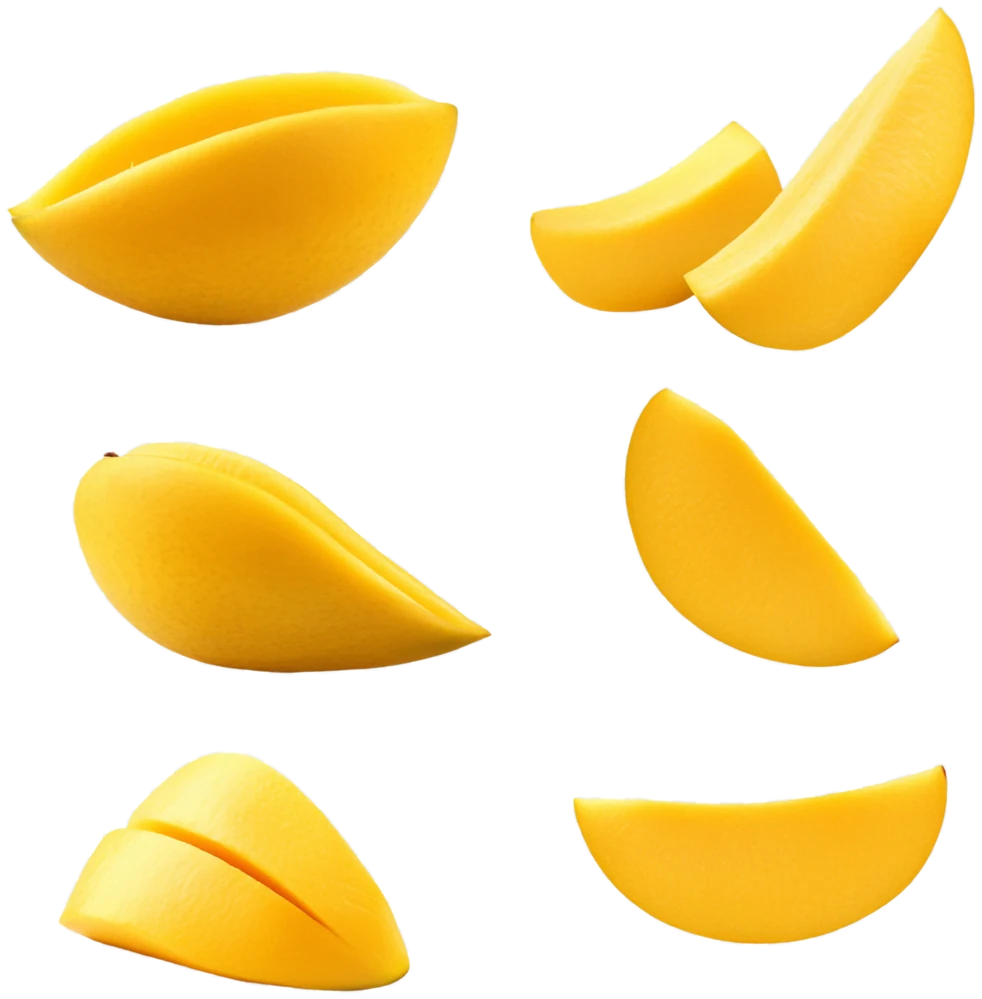
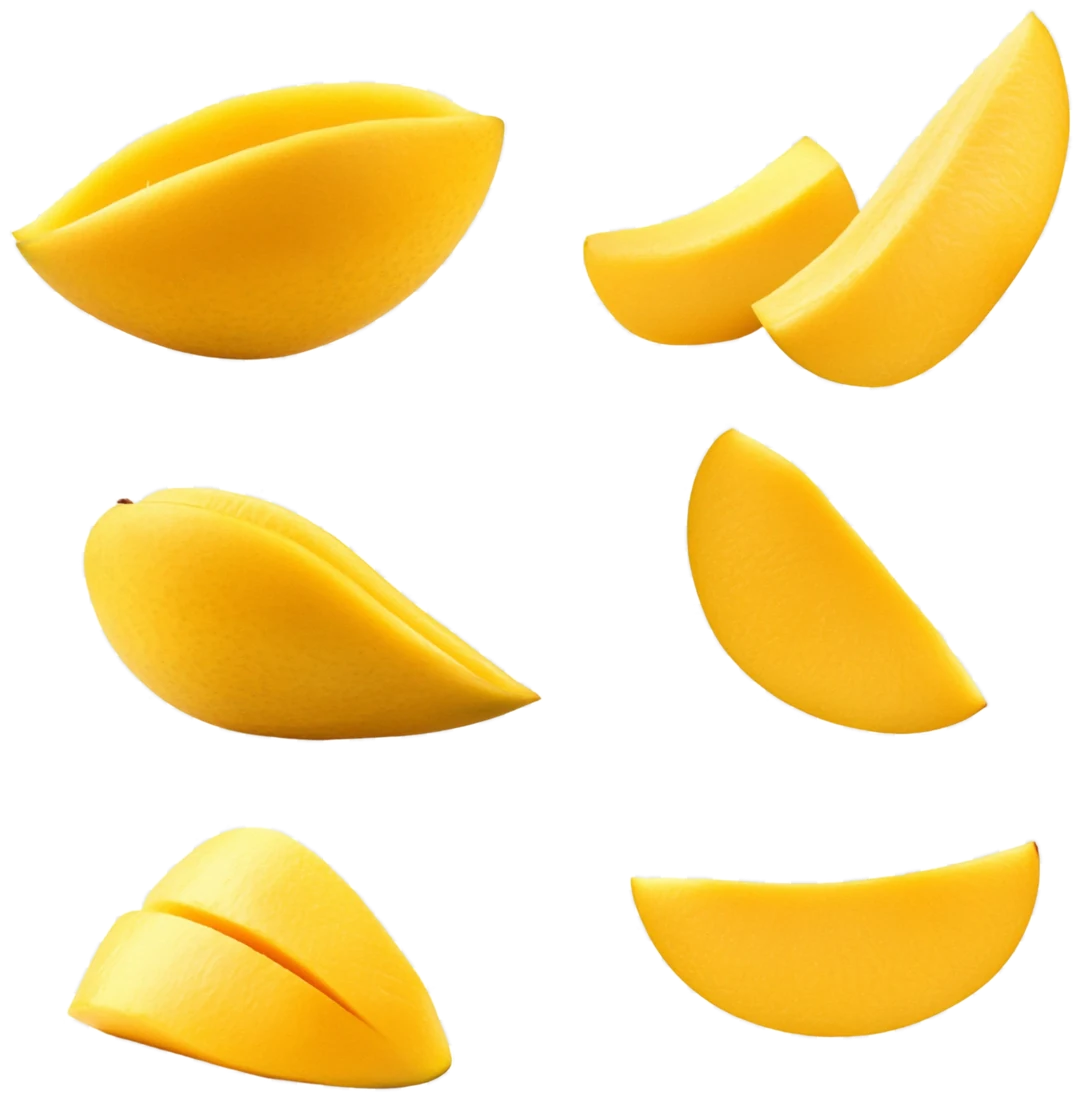
Add coffee beans + upgrade almonds/mango, make ingredient photos idle-animate
New real photos: coffee-beans.webp (new), almonds.webp and mango.webp
(both upgraded to higher-quality multi-piece shots supplied by the site
owner — mango's checkerboard-baked JPG needed a new grayscale-keyed bg
remover, scripts/remove_bg_checker.py). Wired into the Ingredients depth
scene and expanded the Our Craft grid from 6 to 8 tiles (4-column).

Also gives every ingredient photo in the Ingredients scene, the
Signature floaters, and the Our Craft grid a small, continuously
looping idle drift/rotate/breathe animation (staggered per element)
so the page keeps feeling alive at rest, not just while scrolling.
Uses the standalone CSS translate/rotate/scale properties so it
composes with GSAP's transform-based scroll animations instead of
fighting them, and is disabled under prefers-reduced-motion like
everything else on the site.

Claude-Session: https://claude.ai/code/session_01EYBF1g6uSdKexUXA3xAHNE

diff --git a/css/style.css b/css/style.css
@@ -287,25 +287,36 @@ section{ position:relative; }
   display:flex; align-items:center; justify-content:center;
 }
 .depth-layer{ position:absolute; inset:0; }
+/* idle-drift animates the standalone translate/rotate properties (not
+   `transform`), so it composes independently of the scale/opacity GSAP
+   writes to each img's `transform` for the scroll-in entrance — the two
+   never fight over the same property. */
+@keyframes idle-drift{
+  0%, 100%{ translate:0 0; rotate:0deg; }
+  50%{ translate:0 -9px; rotate:1.6deg; }
+}
 .depth-img{
   position:absolute;
   filter:drop-shadow(0 26px 34px rgba(43,30,22,.28));
   will-change:transform;
+  animation:idle-drift 7s ease-in-out infinite;
 }
 .depth-layer--back{ filter:blur(1.5px); opacity:.9; }
-.depth-img--hazelnuts{ top:10%; left:8%; width:12vw; max-width:150px; }
-.depth-img--blueberries{ top:66%; left:80%; width:11vw; max-width:140px; }
+.depth-img--hazelnuts{ top:10%; left:8%; width:12vw; max-width:150px; animation-duration:8s; }
+.depth-img--blueberries{ top:66%; left:80%; width:11vw; max-width:140px; animation-duration:6.4s; animation-delay:-2.1s; }
+.depth-img--coffee{ top:82%; left:88%; width:11vw; max-width:150px; animation-duration:7.4s; animation-delay:-4.6s; }
 
-.depth-img--banana{ top:14%; left:74%; width:15vw; max-width:190px; }
-.depth-img--mango{ top:58%; left:4%; width:15vw; max-width:190px; }
-.depth-img--cashews{ top:16%; left:22%; width:10vw; max-width:130px; }
-.depth-img--ice{ top:38%; left:88%; width:9vw; max-width:120px; }
+.depth-img--banana{ top:14%; left:74%; width:15vw; max-width:190px; animation-duration:8.6s; animation-delay:-1.4s; }
+.depth-img--mango{ top:58%; left:4%; width:15vw; max-width:190px; animation-duration:6.8s; animation-delay:-3.3s; }
+.depth-img--cashews{ top:16%; left:22%; width:10vw; max-width:130px; animation-duration:7.2s; animation-delay:-.8s; }
+.depth-img--almonds{ top:80%; left:38%; width:13vw; max-width:170px; animation-duration:9s; animation-delay:-5.2s; }
+.depth-img--ice{ top:38%; left:88%; width:9vw; max-width:120px; animation-duration:6.2s; animation-delay:-2.7s; }
 
-.depth-img--strawberry{ top:68%; left:64%; width:16vw; max-width:210px; z-index:5; }
-.depth-img--pistachios{ top:6%; left:48%; width:9vw; max-width:120px; z-index:5; }
-.depth-img--chocolate{ top:82%; left:24%; width:10vw; max-width:130px; z-index:5; }
-.depth-img--cream{ top:4%; left:38%; width:11vw; max-width:150px; z-index:5; }
-.depth-img--milk{ top:54%; left:92%; width:12vw; max-width:160px; z-index:5; }
+.depth-img--strawberry{ top:68%; left:64%; width:16vw; max-width:210px; z-index:5; animation-duration:7.8s; animation-delay:-1.9s; }
+.depth-img--pistachios{ top:6%; left:48%; width:9vw; max-width:120px; z-index:5; animation-duration:6.6s; animation-delay:-4s; }
+.depth-img--chocolate{ top:82%; left:24%; width:10vw; max-width:130px; z-index:5; animation-duration:8.2s; animation-delay:-.4s; }
+.depth-img--cream{ top:4%; left:38%; width:11vw; max-width:150px; z-index:5; animation-duration:7s; animation-delay:-3.7s; }
+.depth-img--milk{ top:54%; left:92%; width:12vw; max-width:160px; z-index:5; animation-duration:7.6s; animation-delay:-5.8s; }
 
 .ingredients__copy{
   position:relative; z-index:6;
@@ -355,10 +366,10 @@ section{ position:relative; }
   will-change:transform,opacity;
 }
 .signature__floaters{ position:absolute; inset:0; }
-.floater{ position:absolute; opacity:0; filter:drop-shadow(0 18px 22px rgba(43,30,22,.25)); }
-.floater--sb-1{ width:10%; top:10%; left:6%; }
-.floater--sb-2{ width:8%; bottom:14%; right:8%; }
-.floater--cream{ width:13%; top:6%; right:14%; }
+.floater{ position:absolute; opacity:0; filter:drop-shadow(0 18px 22px rgba(43,30,22,.25)); animation:idle-drift 7s ease-in-out infinite; }
+.floater--sb-1{ width:10%; top:10%; left:6%; animation-duration:7.4s; }
+.floater--sb-2{ width:8%; bottom:14%; right:8%; animation-duration:6.6s; animation-delay:-2.5s; }
+.floater--cream{ width:13%; top:6%; right:14%; animation-duration:8s; animation-delay:-4.8s; }
 
 /* ============ COLLECTION ============ */
 .collection{
@@ -484,15 +495,23 @@ section{ position:relative; }
 
 .craft__grid{
   margin-top:4rem;
-  display:grid; grid-template-columns:repeat(3,1fr); gap:2rem 1.6rem;
+  display:grid; grid-template-columns:repeat(4,1fr); gap:2rem 1.6rem;
 }
 .craft__item{
   display:flex; flex-direction:column; align-items:center; gap:1rem;
 }
+@keyframes idle-breathe{
+  0%, 100%{ scale:1; }
+  50%{ scale:1.05; }
+}
 .craft__item img{
   width:100%; max-width:120px; border-radius:50%; aspect-ratio:1/1; object-fit:cover;
   filter:drop-shadow(0 14px 24px rgba(0,0,0,.35));
+  animation:idle-breathe 5.5s ease-in-out infinite;
 }
+.craft__item:nth-child(2n) img{ animation-duration:6.4s; animation-delay:-2.2s; }
+.craft__item:nth-child(3n) img{ animation-duration:4.8s; animation-delay:-3.6s; }
+.craft__item:nth-child(4n) img{ animation-duration:5.9s; animation-delay:-1.1s; }
 .craft__item span{ font-size:.82rem; font-weight:600; color:rgba(255,248,240,.85); }
 
 /* ============ FOOTER ============ */

diff --git a/index.html b/index.html
@@ -89,12 +89,14 @@
       <div class="depth-layer depth-layer--back" data-depth="0.2">
         <img src="assets/images/hazelnuts.svg" alt="Hazelnuts" class="depth-img depth-img--hazelnuts" />
         <img src="assets/images/blueberries.webp" alt="Blueberries" class="depth-img depth-img--blueberries" />
+        <img src="assets/images/coffee-beans.webp" alt="Coffee beans" class="depth-img depth-img--coffee" />
       </div>
 
       <div class="depth-layer depth-layer--mid" data-depth="0.55">
         <img src="assets/images/banana.webp" alt="Banana" class="depth-img depth-img--banana" />
         <img src="assets/images/mango.webp" alt="Mango" class="depth-img depth-img--mango" />
         <img src="assets/images/cashews.webp" alt="Cashews" class="depth-img depth-img--cashews" />
+        <img src="assets/images/almonds.webp" alt="Almonds" class="depth-img depth-img--almonds" />
         <img src="assets/images/ice-cubes.webp" alt="Ice cubes" class="depth-img depth-img--ice" />
       </div>
 
@@ -296,6 +298,14 @@
         <div class="craft__item">
           <img src="assets/images/mango.webp" alt="Mango" />
           <span>Fresh mango</span>
+        </div>
+        <div class="craft__item">
+          <img src="assets/images/almonds.webp" alt="Almonds" />
+          <span>Toasted almonds</span>
+        </div>
+        <div class="craft__item">
+          <img src="assets/images/coffee-beans.webp" alt="Coffee beans" />
+          <span>Roasted coffee</span>
         </div>
       </div>
     </div>

diff --git a/scripts/remove_bg_checker.py b/scripts/remove_bg_checker.py
@@ -1,0 +1,59 @@
+#!/usr/bin/env python3
+"""
+Removes a checkerboard "transparency preview" background baked into a
+flattened JPG/PNG (the classic two-tone grey checker pattern some image
+tools export when you save a "transparent" PNG as a JPG, losing the real
+alpha channel). Unlike remove_bg.py (single solid background color), this
+keys on pixels that are both near-grayscale (R ≈ G ≈ B) and light,
+which the checker squares are and real food photography usually isn't.
+
+Usage:
+    python3 scripts/remove_bg_checker.py input.jpg output.png [gray_tol] [min_light]
+
+Requires numpy and scipy (pip install numpy scipy).
+"""
+import sys
+import numpy as np
+from PIL import Image, ImageFilter
+from scipy import ndimage
+
+def remove_checker_bg(path, out_path, gray_tol=14, min_light=195, feather=2.0):
+    im = Image.open(path).convert("RGB")
+    arr = np.array(im).astype(np.int16)
+    h, w, _ = arr.shape
+
+    spread = arr.max(axis=2) - arr.min(axis=2)
+    lightness = arr.mean(axis=2)
+    bg_mask = (spread < gray_tol) & (lightness > min_light)
+
+    labeled, n = ndimage.label(bg_mask)
+    border_labels = set(labeled[0, :]) | set(labeled[-1, :]) | set(labeled[:, 0]) | set(labeled[:, -1])
+    border_labels.discard(0)
+    connected_bg = np.isin(labeled, list(border_labels))
+
+    alpha = np.where(connected_bg, 0, 255).astype(np.uint8)
+    alpha_img = Image.fromarray(alpha, mode="L")
+    alpha_img = alpha_img.filter(ImageFilter.GaussianBlur(feather))
+
+    rgba = im.convert("RGBA")
+    rgba.putalpha(alpha_img)
+
+    bbox = alpha_img.point(lambda p: 255 if p > 10 else 0).getbbox()
+    if bbox:
+        pad = 14
+        l, t, r, b = bbox
+        l = max(0, l - pad); t = max(0, t - pad)
+        r = min(w, r + pad); b = min(h, b + pad)
+        rgba = rgba.crop((l, t, r, b))
+
+    rgba.save(out_path)
+    print(f"{path} -> {out_path}  {rgba.size}")
+
+if __name__ == "__main__":
+    if len(sys.argv) < 3:
+        print(__doc__)
+        sys.exit(1)
+    src, dst = sys.argv[1], sys.argv[2]
+    gray_tol = float(sys.argv[3]) if len(sys.argv) > 3 else 14
+    min_light = float(sys.argv[4]) if len(sys.argv) > 4 else 195
+    remove_checker_bg(src, dst, gray_tol=gray_tol, min_light=min_light)

diff --git a/assets/images/README.md b/assets/images/README.md
@@ -6,7 +6,7 @@ where no photo exists yet). Every real photo listed below was uploaded
 by the site owner, converted to WebP, and had its background cleaned up
 where needed — nothing here is AI-generated.
 
-## Real photographs (13 files)
+## Real photographs (15 files)
 
 | File | Shows | Source |
 |---|---|---|
@@ -14,9 +14,10 @@ where needed — nothing here is AI-generated.
 | `strawberry-alt.webp` | Single heart-shaped strawberry | user-supplied (bg removed) |
 | `photo-strawberry-shake.webp` | Full real strawberry milkshake in a glass, splash crown on top, transparent bg — the hero's product shot | user-supplied |
 | `banana.webp` | Single banana, transparent bg | user-supplied |
-| `mango.webp` | Six mango slices/wedges | user-supplied (bg removed) |
+| `mango.webp` | Six mango wedges scattered mid-air, transparent bg | user-supplied (bg removed — arrived as a flattened JPG with a checkerboard "transparency preview" baked in, not real alpha; see below) |
 | `blueberries.webp` | Cluster of 4 (composited from one real blueberry photo, rotated/scaled — same photograph, arranged as a group) | user-supplied |
-| `almonds.webp` | Scattered almond group | user-supplied |
+| `almonds.webp` | Scattered group of ~16 whole almonds, transparent bg | user-supplied |
+| `coffee-beans.webp` | Scattered group of 11 roasted coffee beans, transparent bg | user-supplied |
 | `cashews.webp` | Cashew group | user-supplied |
 | `pistachios.webp` | Single opened pistachio | user-supplied |
 | `chocolate.webp` | Chocolate syrup swirl | user-supplied |
@@ -46,6 +47,16 @@ for background), and feathers the edge — no AI background-removal tool
 involved. Run it as `python3 scripts/remove_bg.py in.jpg out.png` on any
 future studio-background photo.
 
+`mango.webp` needed a variant of that: it arrived as a JPG with a
+two-tone grey checkerboard baked into the pixels (the classic
+"transparency preview" pattern some editors flatten into an export) —
+not a real alpha channel. [`scripts/remove_bg_checker.py`](../../scripts/remove_bg_checker.py)
+keys on pixels that are both near-grayscale and light rather than a
+single background color, then does the same border-connected flood
+fill and feather. Run it as
+`python3 scripts/remove_bg_checker.py in.jpg out.png` if another photo
+shows up with that same checker pattern.
+
 ## Swapping in more real photography
 
 Same process as before — no code restructuring needed:
@@ -65,14 +76,35 @@ Same process as before — no code restructuring needed:
   real product shot — replaced an earlier bottle+glass illustration
   pairing, and the splash-ring transition between them was later
   removed too — the tumble now settles straight into the product shot).
-- **Ingredients depth scene** — all 9 ingredient photos above, plus
-  `hazelnuts.svg` and `whipped-cream.svg`.
-- **Signature** — `shake-strawberry.svg` + strawberry floaters.
+- **Ingredients depth scene** — all 11 ingredient photos above (including
+  the new `almonds.webp` and `coffee-beans.webp`), plus `hazelnuts.svg`
+  and `whipped-cream.svg`. Every image in this scene has a slow,
+  continuously-looping idle drift/rotate (see "Idle motion" below) on
+  top of its scroll-driven parallax, so the section keeps moving gently
+  even when the page isn't being scrolled.
+- **Signature** — `shake-strawberry.svg` + strawberry floaters (also
+  idle-drifting).
 - **Collection (menu cards)** — the six `shake-*.svg` illustrations.
 - **Showcase** (new section, between Menu and Our Craft) — the three
   full real product photographs.
-- **Our Craft** — 6 tiles: strawberries, cashews, chocolate (real
-  photos), whipped cream (illustration), banana, mango (real photos).
+- **Our Craft** — 8 tiles in a 4-column grid: strawberries, cashews,
+  chocolate, banana, mango, almonds, coffee beans (real photos) and
+  whipped cream (illustration). Each tile has a slow idle "breathe"
+  scale pulse.
+
+## Idle motion ("alive" page feel)
+
+Past their one-time scroll-triggered entrance, the ingredient images
+above no longer sit perfectly still — each one loops a small
+(±9px drift / ±1.6° rotate, or a subtle scale pulse on the Our Craft
+circles) animation indefinitely, staggered per-image with different
+durations/delays so nothing moves in lockstep. It's done with the
+standalone CSS `translate`/`rotate`/`scale` properties (not `transform`)
+specifically so it composes cleanly with whatever GSAP is doing to the
+same element's `transform` for scroll parallax, instead of fighting it.
+See `@keyframes idle-drift` / `idle-breathe` in `css/style.css`. It's
+automatically disabled for `prefers-reduced-motion: reduce` along with
+every other animation on the site.
 
 ## Regenerating the illustrations
 

diff --git a/README.md b/README.md
@@ -36,12 +36,15 @@ ridges, a whipped-cream swirl, glass condensation), generated by
 [`scripts/generate_svg_assets.py`](scripts/generate_svg_assets.py).
 
 **Most of those illustrations have since been replaced with real
-photography** supplied by the site owner — 12 real photos are in use now
-(strawberries, banana, mango, blueberries, almonds, cashews, pistachios,
-chocolate, ice cubes, milk splash, plus three full milkshake/dessert
-photos in the new Showcase section). A few studio-background photos were
-cleaned up with [`scripts/remove_bg.py`](scripts/remove_bg.py) (a
-flood-fill color-key, not an AI tool). See
+photography** supplied by the site owner — 15 real photos are in use now
+(strawberries, banana, mango, blueberries, almonds, coffee beans, cashews,
+pistachios, chocolate, ice cubes, milk splash, plus three full
+milkshake/dessert photos in the new Showcase section). A few studio-background
+photos were cleaned up with [`scripts/remove_bg.py`](scripts/remove_bg.py)
+(a flood-fill color-key, not an AI tool) — one that arrived with a
+checkerboard "transparency preview" baked in instead of a real alpha
+channel used the [`scripts/remove_bg_checker.py`](scripts/remove_bg_checker.py)
+variant of the same technique. See
 [`assets/images/README.md`](assets/images/README.md) for the complete
 breakdown of what's a real photo vs. what's still an illustration, and
 how to swap in more — it's a one-line change per image, no code
@@ -66,7 +69,9 @@ scripts/generate_svg_assets.py    → regenerates every SVG illustration
    parallaxes/blurs the whole stage like a camera pull-back.
 2. **Ingredients** — a pinned, scroll-scrubbed depth scene: three layers of
    real ingredient photos + a couple of illustrations move at different
-   speeds/rotations to simulate 3D depth without any fake 3D models.
+   speeds/rotations to simulate 3D depth without any fake 3D models, and
+   every image idles with a small looping drift/rotate so the scene
+   keeps feeling alive even at rest.
 3. **Signature** — the flagship Strawberry Cloud shake illustration scales
    and rotates in on scroll, with floating real strawberry/cream cutouts.
 4. **Collection** — six product cards, each with its *own* shake
@@ -76,8 +81,8 @@ scripts/generate_svg_assets.py    → regenerates every SVG illustration
 5. **Showcase** — "Shot, not rendered": three real photographed
    milkshake/dessert shots in a framed gallery strip, proving the site's
    authenticity claim with actual photography.
-6. **Our Craft** — brand story section with 6 ingredient portrait tiles
-   (mostly real photos now).
+6. **Our Craft** — brand story section with 8 ingredient portrait tiles
+   (mostly real photos now), each with a slow idle scale-pulse.
 7. **Footer** — CTA + site links.
 
 ## Tech
